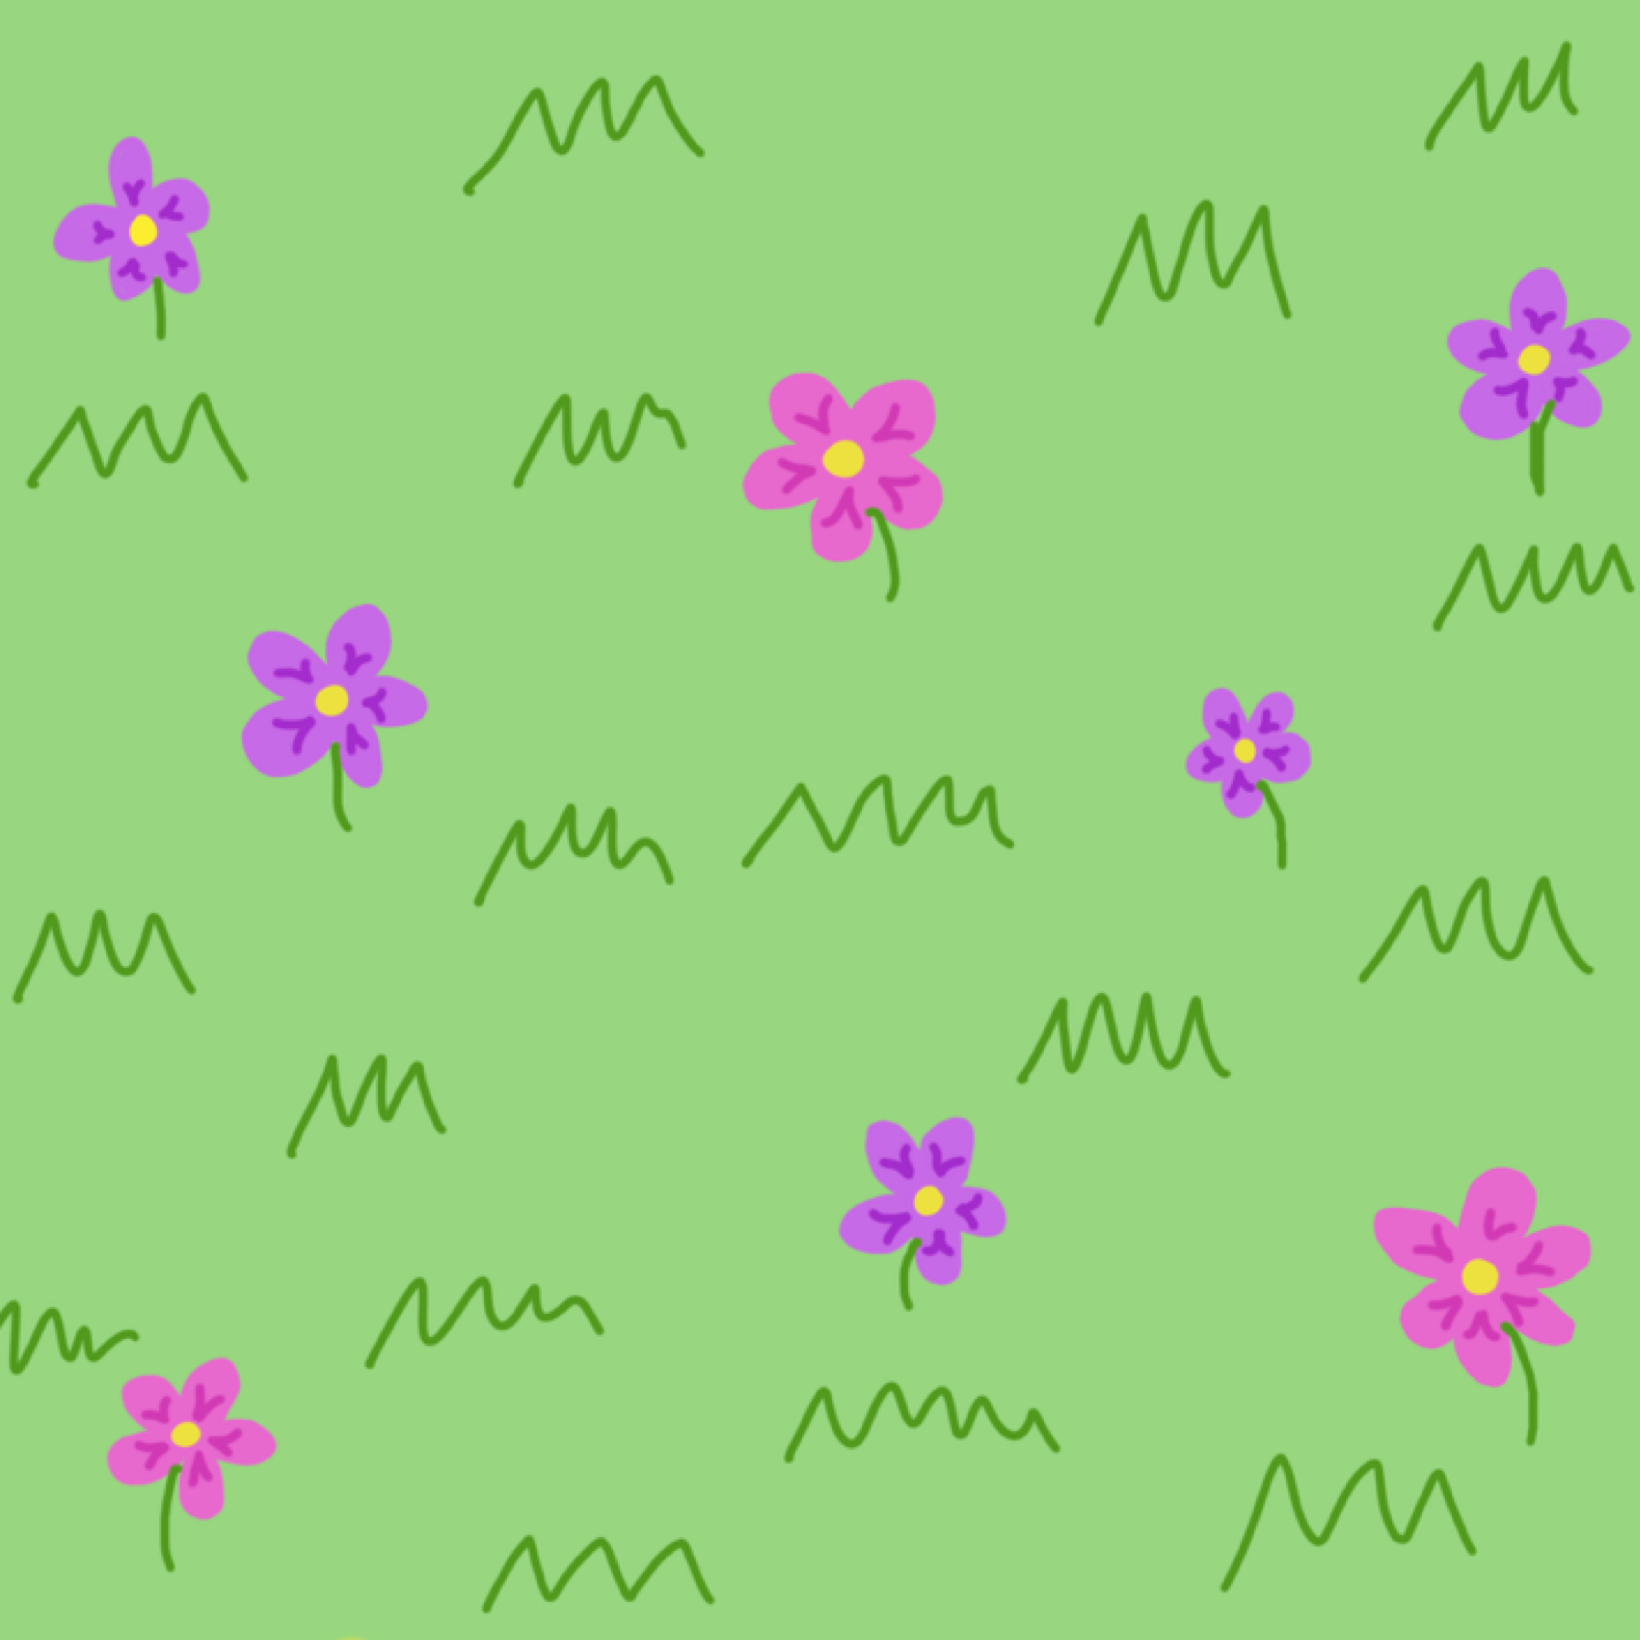
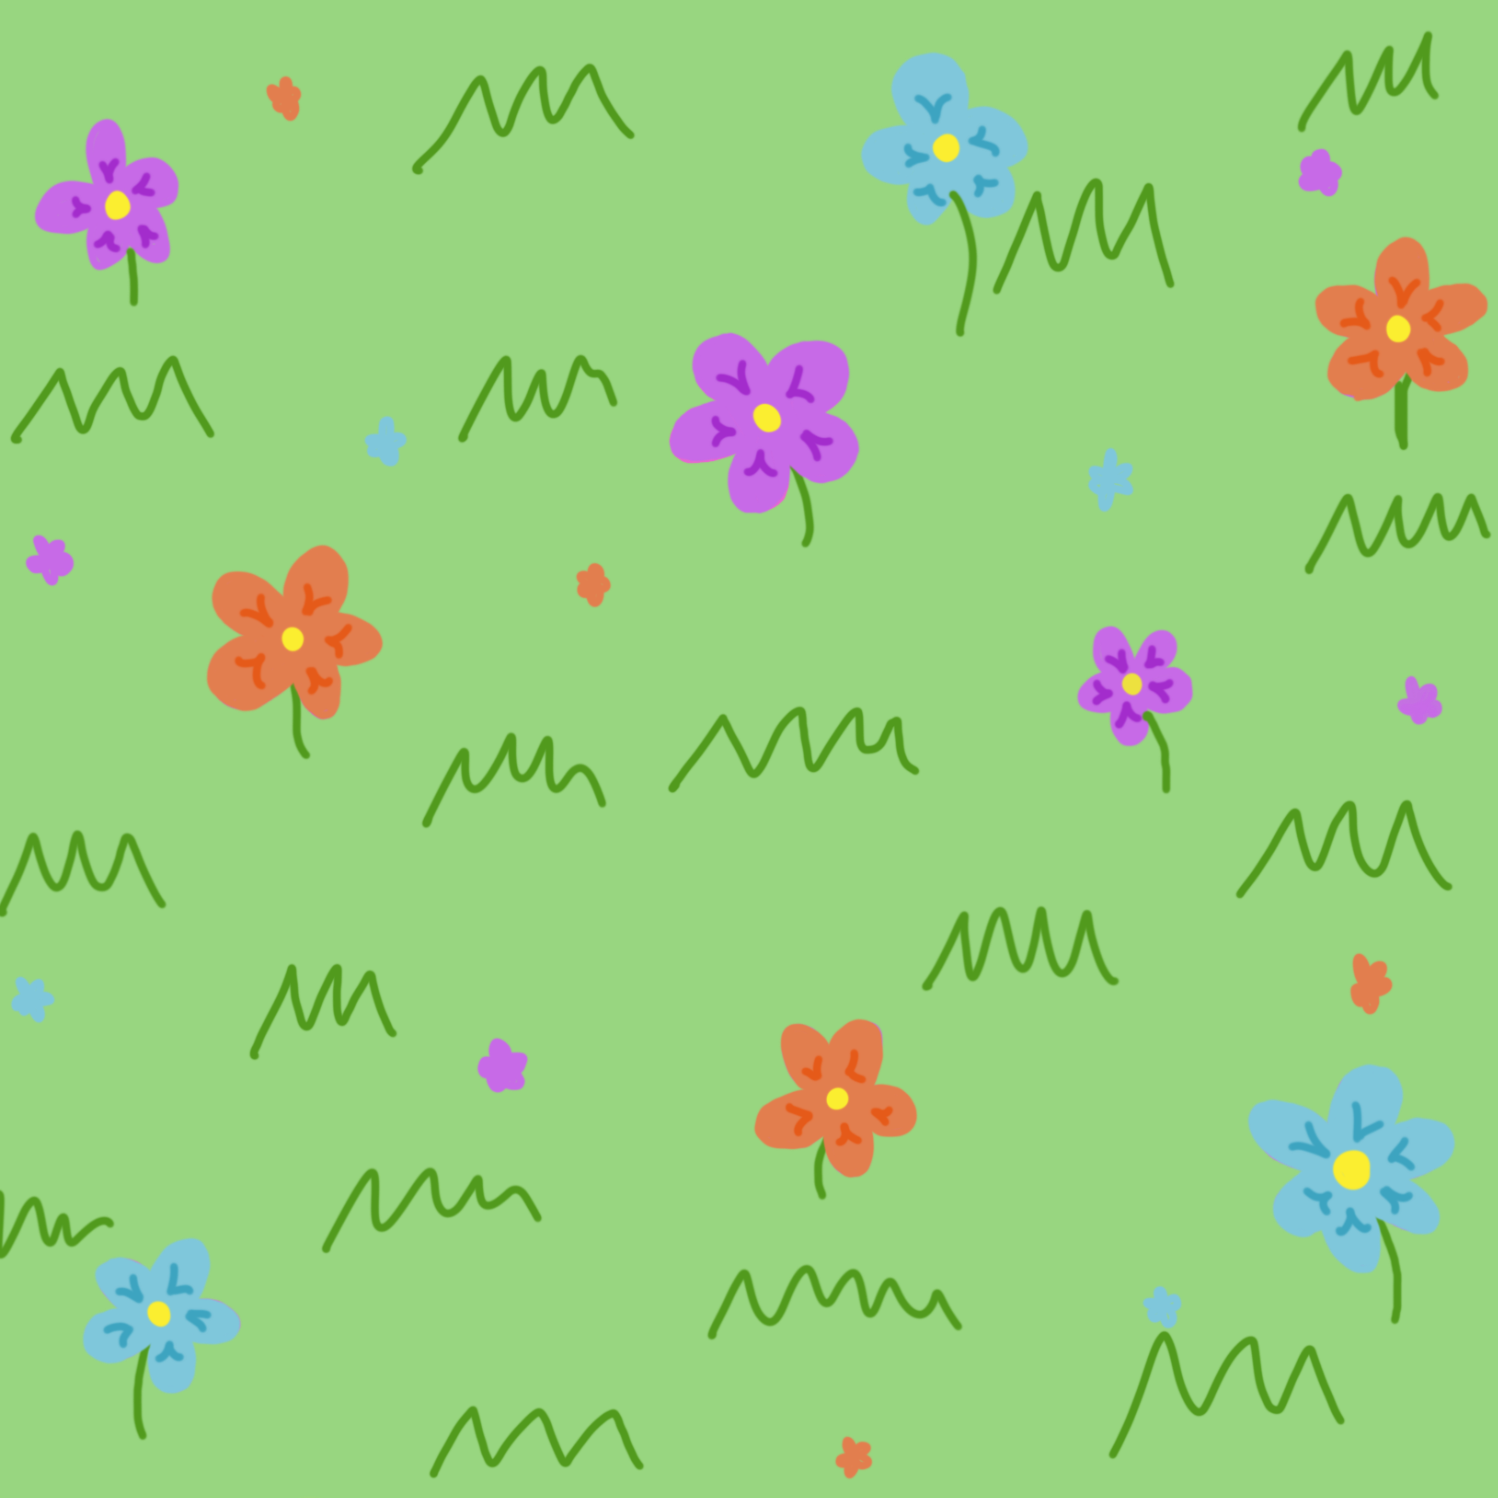
Background and title screen changes.
I added flowers and made the background of the overworld match the colors of the real smiski flowers.

diff --git a/src/TitleScreen.js b/src/TitleScreen.js
@@ -1,7 +1,10 @@
 class TitleScreen {
-  constructor() {
+  constructor(fire, ice, mind) {
   this.title = true;
   this.btn = { x: 500, y: 400, w: 200, h: 60 };
+  this.fire = fire;
+  this.ice = ice;
+  this.mind = mind;
 
     window.addEventListener('mousedown', () => {
     if (this.title && this.isHovering()) this.title = false;
@@ -31,11 +34,12 @@ class TitleScreen {
 
     textSize(20);
     text("Hello Traveler! ", 500, 150);
-    text("This game will allow you to become magical mage on a quest to defeat the evil boss", 500, 180);
-    text("Dungeons full of foes await you, as well as treasures beyond your wildest dreams", 500, 200);
-    text("Solve puzzles, defeat enemies and collect items to complete your noble quest", 500, 220);
+    text("This game will allow you to become magical mage on a quest to defeat the evil boss", 500, 200);
+    text("Dungeons full of foes await you, as well as treasures beyond your wildest dreams", 500, 220);
+    text("Solve puzzles, defeat enemies and collect items to complete your noble quest", 500, 240);
 
     this.drawPlayButton();
+    this.drawFlowers();
     pop();
   }
 
@@ -53,7 +57,7 @@ class TitleScreen {
     noStroke();
     fill(255);
     textSize(28);
-    text("Play", this.btn.x, this.btn.y);
+    text("Start Quest!", this.btn.x, this.btn.y);
 
     cursor(hover ? HAND : ARROW);
   }
@@ -62,5 +66,27 @@ class TitleScreen {
     if (this.title && this.isHovering()) {
       this.title = false;
     }
+  }
+
+  drawFlowers() {
+    // fire flowers 
+    drawImg(this.fire, 40, 300, 40, 40);
+    drawImg(this.fire, 800, 450, 40, 40);
+    drawImg(this.fire, 300, 50, 40, 40);
+    drawImg(this.fire, 950, 200, 40, 40);
+    drawImg(this.fire, 550, 320, 40, 40);
+
+    //ice flowers
+    drawImg(this.ice, 150, 500, 40, 40);
+    drawImg(this.ice, 650, 150, 40, 40);
+    drawImg(this.ice, 875, 300, 40, 40);
+    drawImg(this.ice, 5, 30, 40, 40);
+
+    //mind flowers
+    drawImg(this.mind, 500, 550, 40, 40);
+    drawImg(this.mind, 850, 20, 40, 40);
+    drawImg(this.mind, 145, 100, 40, 40);
+    drawImg(this.mind, 260, 400, 40, 40);
+    drawImg(this.mind, 945, 490, 40, 40);
   }
 }

diff --git a/src/sketch.js b/src/sketch.js
@@ -25,11 +25,14 @@ async function setup() {
 
   backgroundImage = await loadImg('./src/assets/environment/GrassyPlain.png');
   characterImage  = await loadImg('./src/assets/tmp/SmiskiTEMP.jpg');
+  fireFlower = await loadImg('./src/assets/sprites/Smiski-Flower-Fire.png');
+  iceFlower = await loadImg('./src/assets/sprites/Smiski-Flower-Ice.png');
+  mindFlower = await loadImg('./src/assets/sprites/Smiski-Flower-Mind.png');
 
   smis = new character(200, 200, 4, characterImage);
   playerHealth = new HealthBar(100, 50, 50, 200, 20);
   overWorld = new OverWorld(backgroundImage);
-  titleScreen = new TitleScreen();
+  titleScreen = new TitleScreen(fireFlower, iceFlower, mindFlower);
 }
 
 function draw() {
